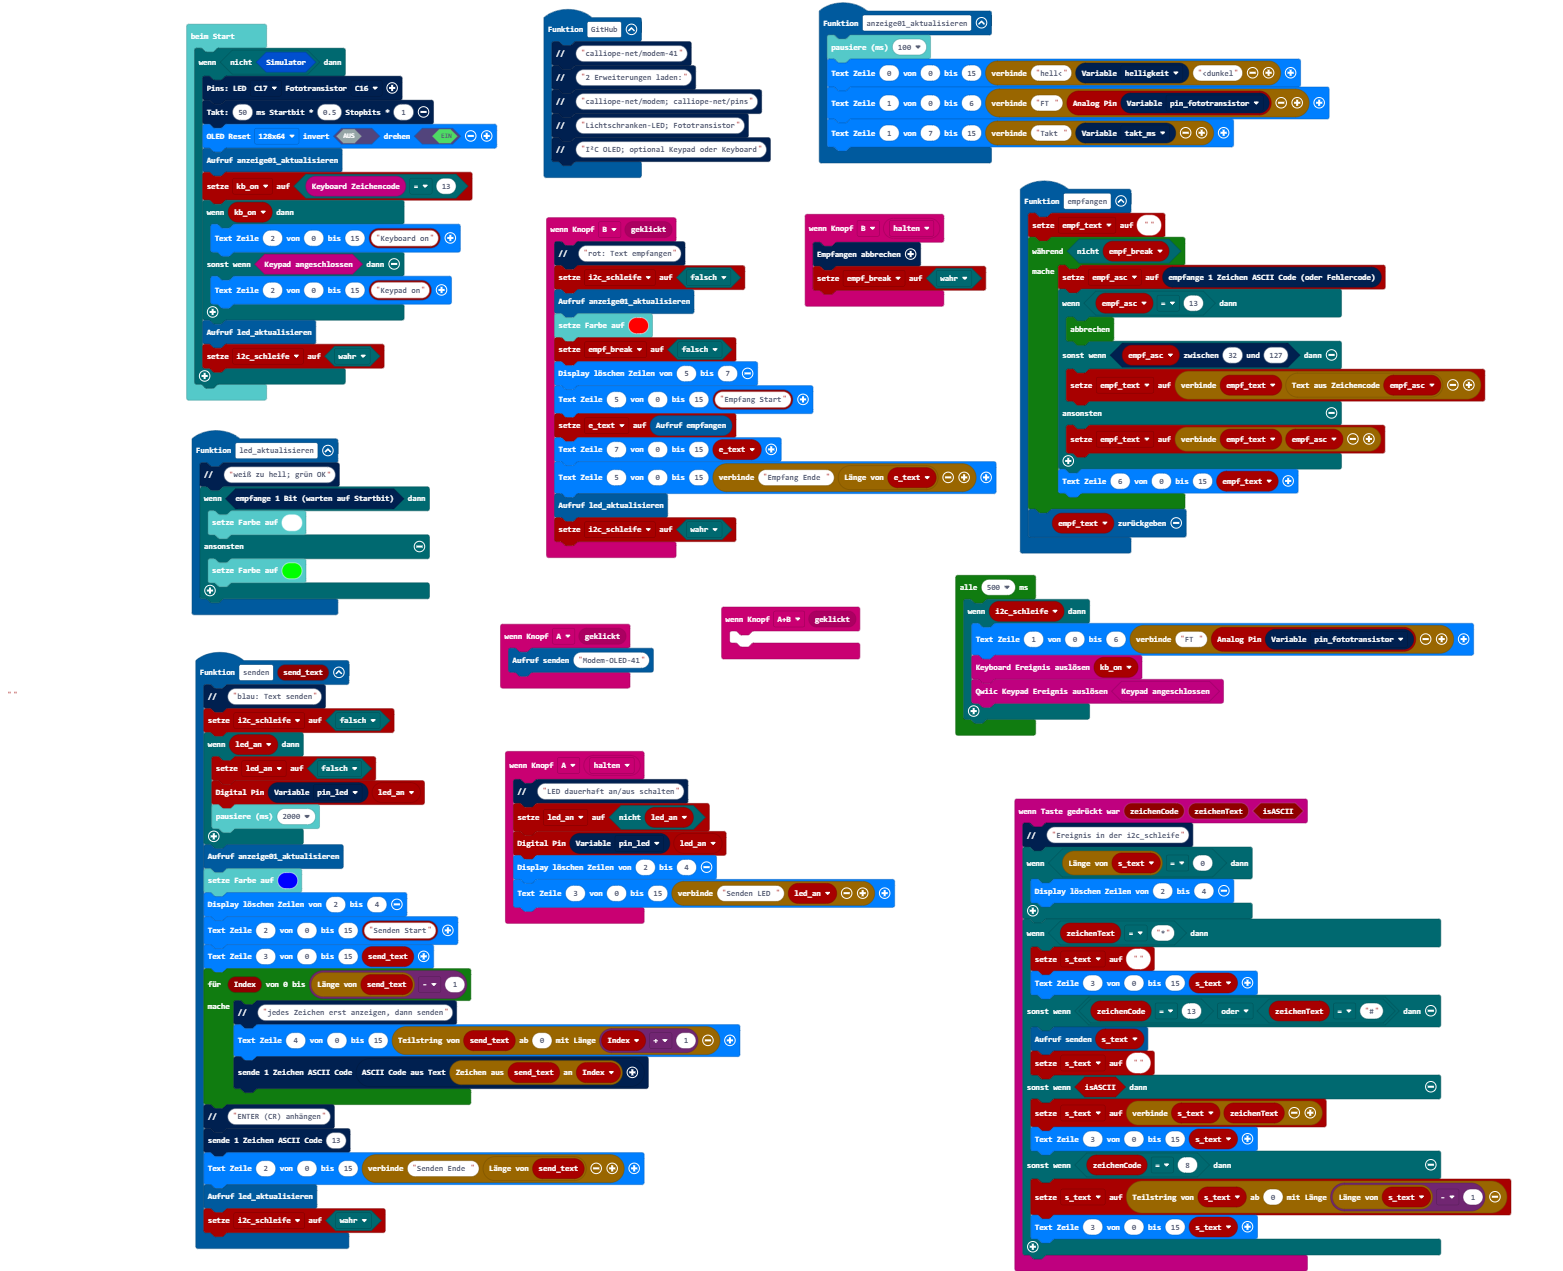
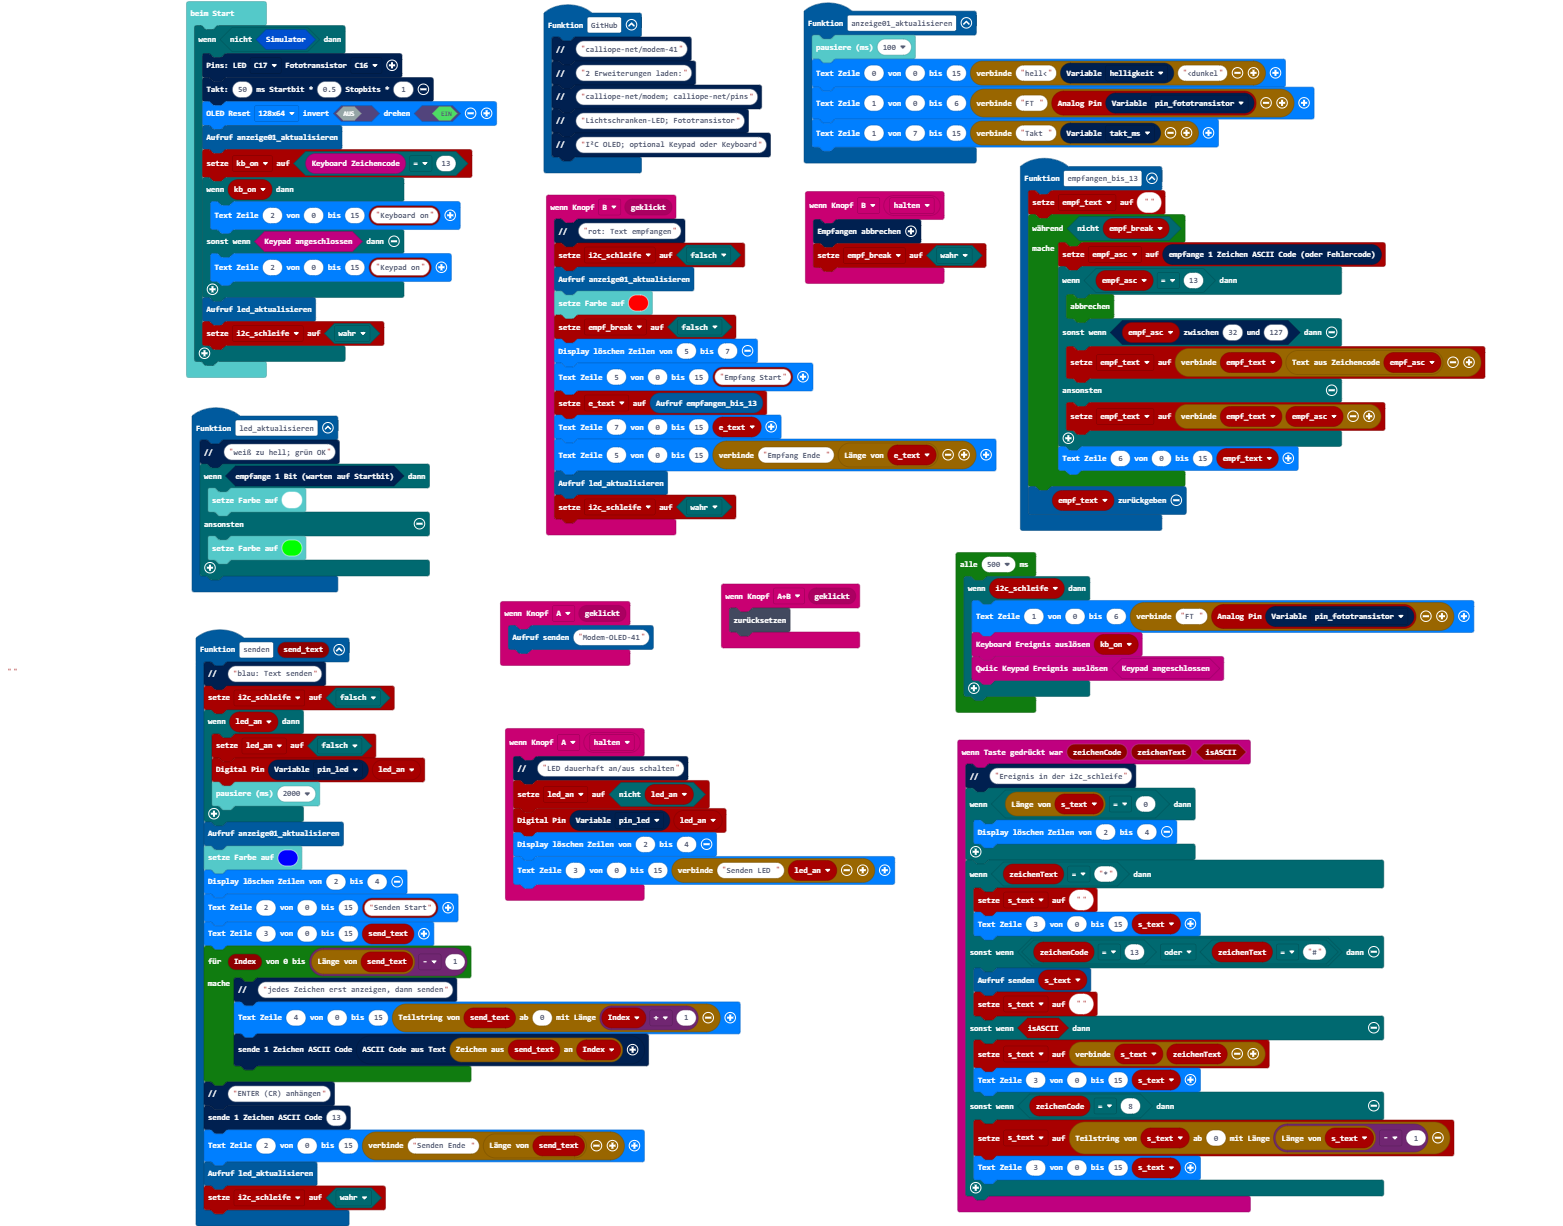
Aktualisiere main.blocks, main.ts

diff --git a/main.ts b/main.ts
@@ -51,7 +51,38 @@ pins.onKeyboardEvent(function (zeichenCode, zeichenText, isASCII) {
 input.onButtonEvent(Button.A, input.buttonEventClick(), function () {
     senden("Modem-OLED-41")
 })
-function empfangen () {
+function led_aktualisieren () {
+    modem.comment("weiß zu hell; grün OK")
+    if (modem.empfange1bit()) {
+        basic.setLedColor(0xffffff)
+    } else {
+        basic.setLedColor(0x00ff00)
+    }
+}
+input.onButtonEvent(Button.AB, input.buttonEventClick(), function () {
+    control.reset()
+})
+input.onButtonEvent(Button.B, input.buttonEventClick(), function () {
+    modem.comment("rot: Text empfangen")
+    i2c_schleife = false
+    anzeige01_aktualisieren()
+    basic.setLedColor(0xff0000)
+    empf_break = false
+    pins.oled_clear(5, 7)
+    pins.oled_write_text(5, 0, 15, pins.pins_text("Empfang Start"))
+    e_text = empfangen_bis_13()
+    pins.oled_write_text(7, 0, 15, e_text)
+    pins.oled_write_text(5, 0, 15, "Empfang Ende " + e_text.length)
+    led_aktualisieren()
+    i2c_schleife = true
+})
+function anzeige01_aktualisieren () {
+    basic.pause(100)
+    pins.oled_write_text(0, 0, 15, "hell<" + modem.get_settings(modem.e_settings.helligkeit) + "<dunkel")
+    pins.oled_write_text(1, 0, 6, "FT " + pins.pinAnalogRead(modem.get_settings(modem.e_settings.pin_fototransistor)))
+    pins.oled_write_text(1, 7, 15, "Takt " + modem.get_settings(modem.e_settings.takt_ms))
+}
+function empfangen_bis_13 () {
     empf_text = ""
     while (!(empf_break)) {
         empf_asc = modem.empfange_1zeichen()
@@ -66,37 +97,6 @@ function empfangen () {
     }
     return empf_text
 }
-function led_aktualisieren () {
-    modem.comment("weiß zu hell; grün OK")
-    if (modem.empfange1bit()) {
-        basic.setLedColor(0xffffff)
-    } else {
-        basic.setLedColor(0x00ff00)
-    }
-}
-input.onButtonEvent(Button.AB, input.buttonEventClick(), function () {
-	
-})
-input.onButtonEvent(Button.B, input.buttonEventClick(), function () {
-    modem.comment("rot: Text empfangen")
-    i2c_schleife = false
-    anzeige01_aktualisieren()
-    basic.setLedColor(0xff0000)
-    empf_break = false
-    pins.oled_clear(5, 7)
-    pins.oled_write_text(5, 0, 15, pins.pins_text("Empfang Start"))
-    e_text = empfangen()
-    pins.oled_write_text(7, 0, 15, e_text)
-    pins.oled_write_text(5, 0, 15, "Empfang Ende " + e_text.length)
-    led_aktualisieren()
-    i2c_schleife = true
-})
-function anzeige01_aktualisieren () {
-    basic.pause(100)
-    pins.oled_write_text(0, 0, 15, "hell<" + modem.get_settings(modem.e_settings.helligkeit) + "<dunkel")
-    pins.oled_write_text(1, 0, 6, "FT " + pins.pinAnalogRead(modem.get_settings(modem.e_settings.pin_fototransistor)))
-    pins.oled_write_text(1, 7, 15, "Takt " + modem.get_settings(modem.e_settings.takt_ms))
-}
 input.onButtonEvent(Button.A, ButtonEvent.Hold, function () {
     modem.comment("LED dauerhaft an/aus schalten")
     led_an = !(led_an)
@@ -108,10 +108,10 @@ input.onButtonEvent(Button.B, ButtonEvent.Hold, function () {
     modem.empfang_abbrechen()
     empf_break = true
 })
-let e_text = ""
 let empf_asc = 0
-let empf_break = false
 let empf_text = ""
+let e_text = ""
+let empf_break = false
 let s_text = ""
 let led_an = false
 let i2c_schleife = false
